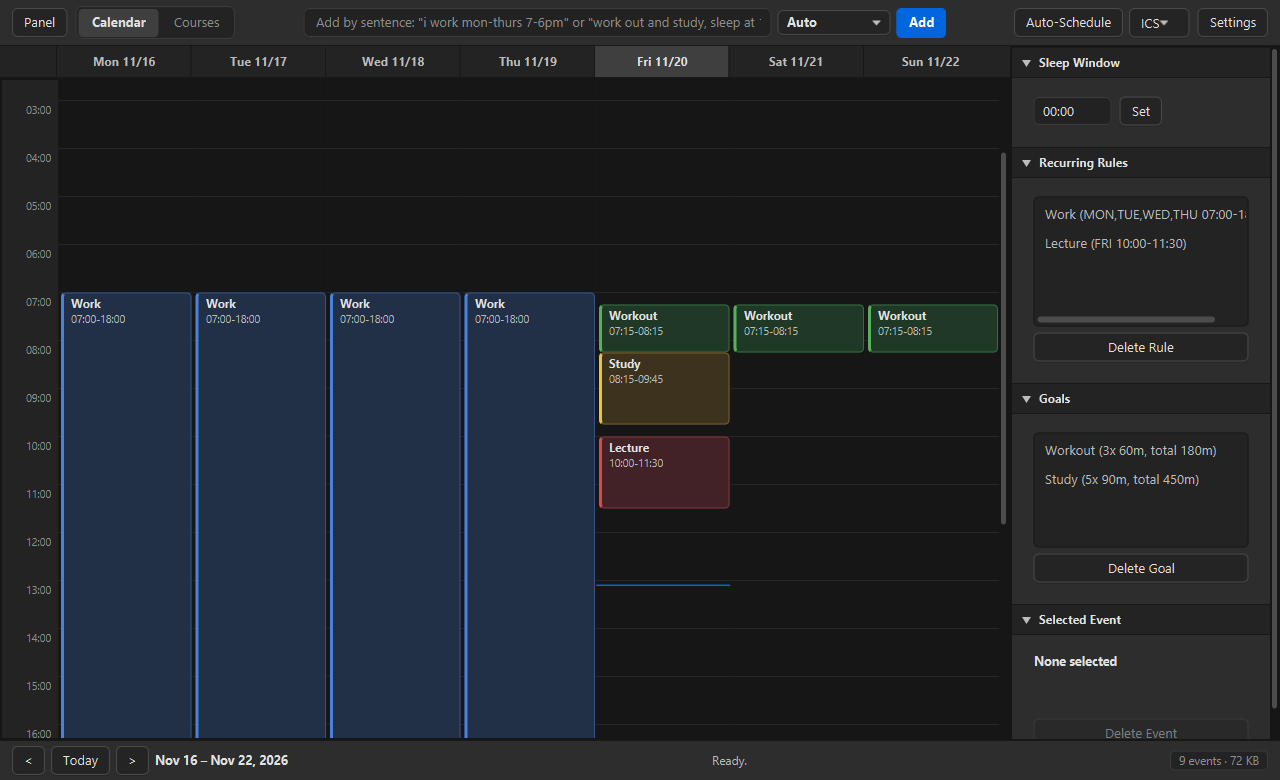
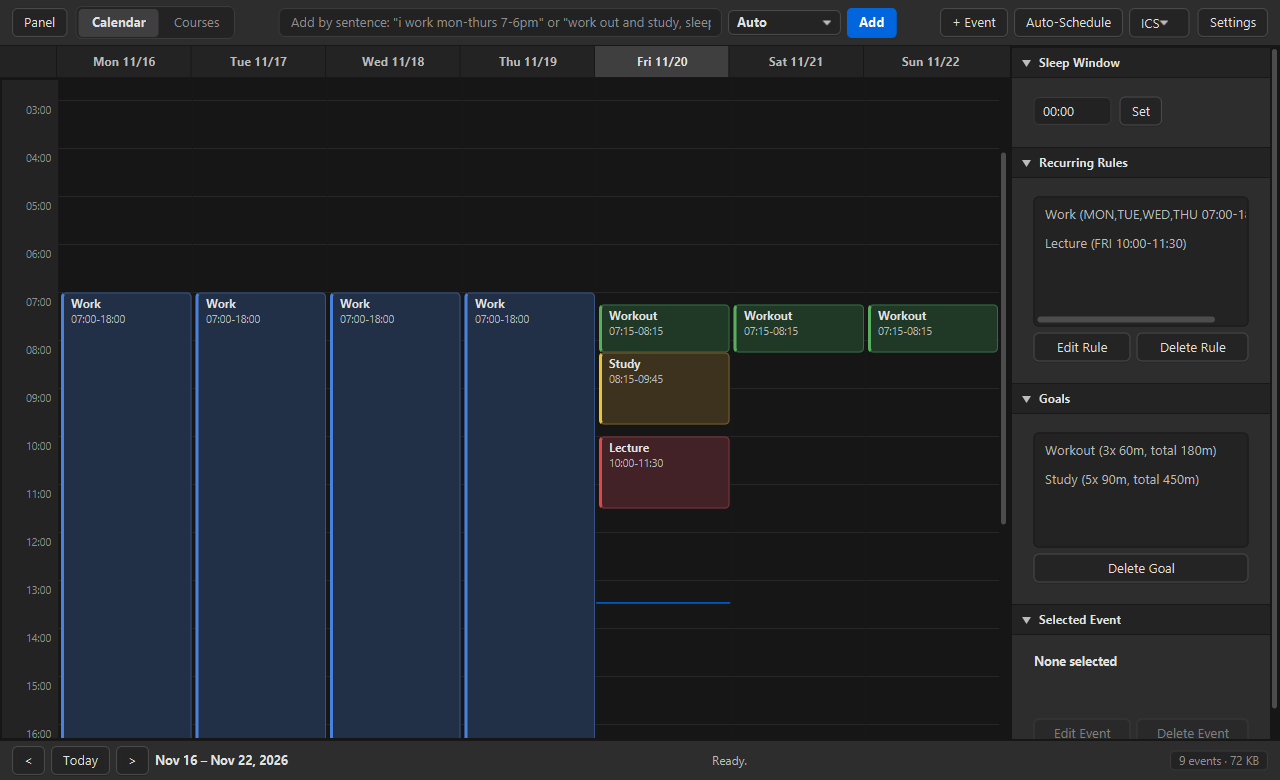
document interactive calendar editing and zoom

Changed region(s): [[0.25, 0.0, 0.7812, 0.0615], [0.8125, 0.9231, 0.9688, 0.9538], [0.8125, 0.4308, 0.9688, 0.4615]]

diff --git a/README.md b/README.md
@@ -2,7 +2,7 @@
 
 A local-first Windows desktop app in two parts:
 
-1. **Calendar Builder**: Enter plain sentences like `"i work mon-thurs 7-6pm"` or `"i want to work out and study, i'm busy at 8pm for 2 hours, and i want to sleep at 12"`. Fixed blocks, recurring blocks, sleep hours, and workout/study goals are saved locally in SQLite and scheduled deterministically without overlaps. Supports importing Google Calendar `.ics` exports (from file or pasted text) and exporting back to `.ics`.
+1. **Calendar Builder**: Enter plain sentences like `"i work mon-thurs 7-6pm"` or `"i want to work out and study, i'm busy at 8pm for 2 hours, and i want to sleep at 12"`. Fixed blocks, recurring blocks, sleep hours, and workout/study goals are saved locally in SQLite and scheduled deterministically without overlaps. You can also **manually add, edit, and adjust timings like Google Calendar**: click-and-drag (or double-click) any empty slot to create an event, drag existing events up/down to move them, drag an event's bottom edge to resize its duration, double-click any event or recurring rule to edit its details, and hold **`Ctrl + Scroll`** to zoom the calendar grid in and out. Supports importing Google Calendar `.ics` exports (from file or pasted text) and exporting back to `.ics`.
 2. **Course Organizer**: Organizes courses numerically by course number (for example `MATH 99`, `CMPT 201`, `STAT 201`, `CMPT 1000`) with real disk folders (`courses/CMPT-201/lectures/`, `notes/`, `coursework/`). Supports writing markdown notes and **dragging & dropping PowerPoint (`.pptx`/`.ppt`), PDF (`.pdf`), or document files** directly into a course section to store them locally (with one-click **Open File** and **Open Folder** buttons). Exports a single course or all courses into a `.zip` of clean markdown (`README.md`, normalized per-section `.md` files, and `combined.md`) ready to pass to another LLM for studying.
 
 ## Screenshots

diff --git a/docs/architecture.md b/docs/architecture.md
@@ -37,7 +37,7 @@
 - `com.calendarorganizer.ui`
   - `UiTheme`: `CHARCOAL` (default dark), `MIDNIGHT` (near-black dark), and `PAPER` (light) theme definitions.
   - `MainWindow`: unified LightCraft-inspired chrome with top command bar, bottom status/navigation bar, collapsible panels, and `Calendar`/`Courses` mode switching.
-  - `CalendarTabView`, `WeekGridView`: 7-day x 24-hour calendar canvas with static hour gridlines, coalesced resize relayout, smooth wheel scrolling, current-time indicator, `.ics` background tasks, and collapsible right inspector.
+  - `CalendarTabView`, `WeekGridView`, `EventDialog`: 7-day x 24-hour calendar canvas with `Ctrl + Scroll` zooming, static hour gridlines, coalesced resize relayout, smooth wheel scrolling, current-time indicator, drag-to-create on empty slots, drag-to-move/resize on event cards, manual event and recurring-rule editing dialogs, `.ics` background tasks, and collapsible right inspector.
   - `CourseTabView`: three-pane course list with top-bar filtering, segmented section switch (`Lectures`, `Notes`, `Coursework`), markdown editor, and background `.zip` exports.
   - `SettingsDialog`: theme switcher, storage and JVM memory readout, `Clear Past Events`, `Clear Scheduled Sessions`, `Optimize & Compact Database`, and `Reset All Calendar History & Settings`.
 
